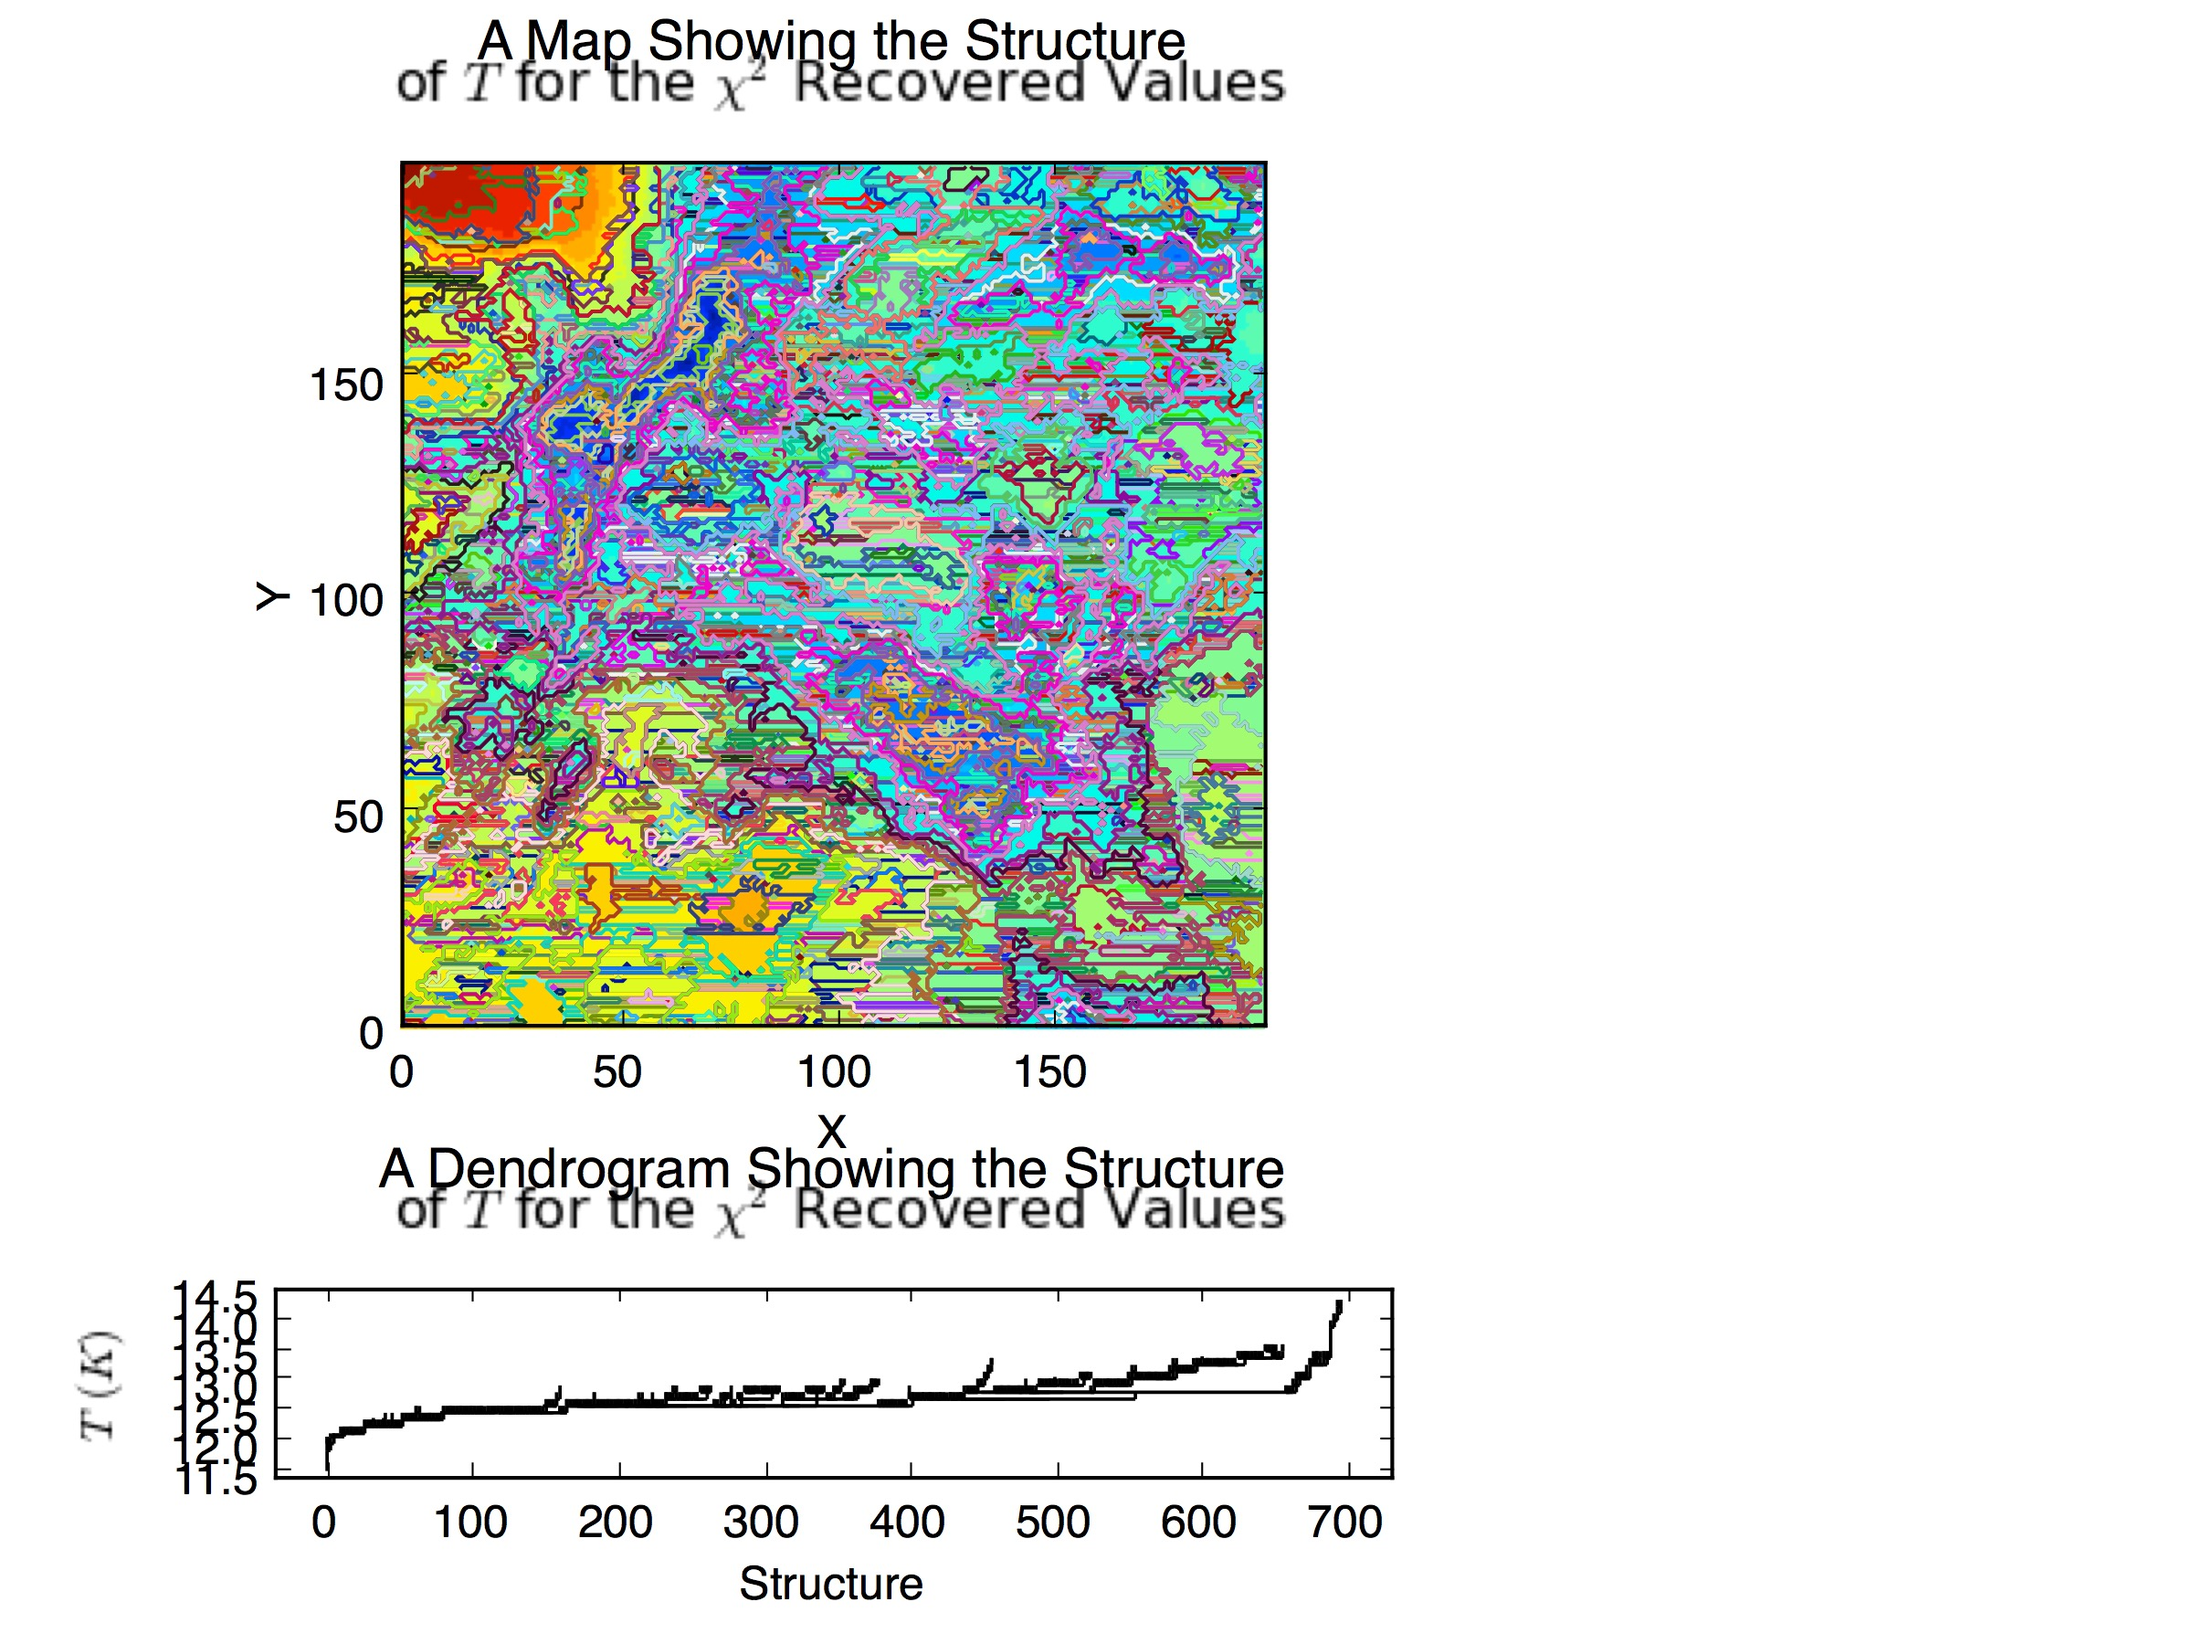
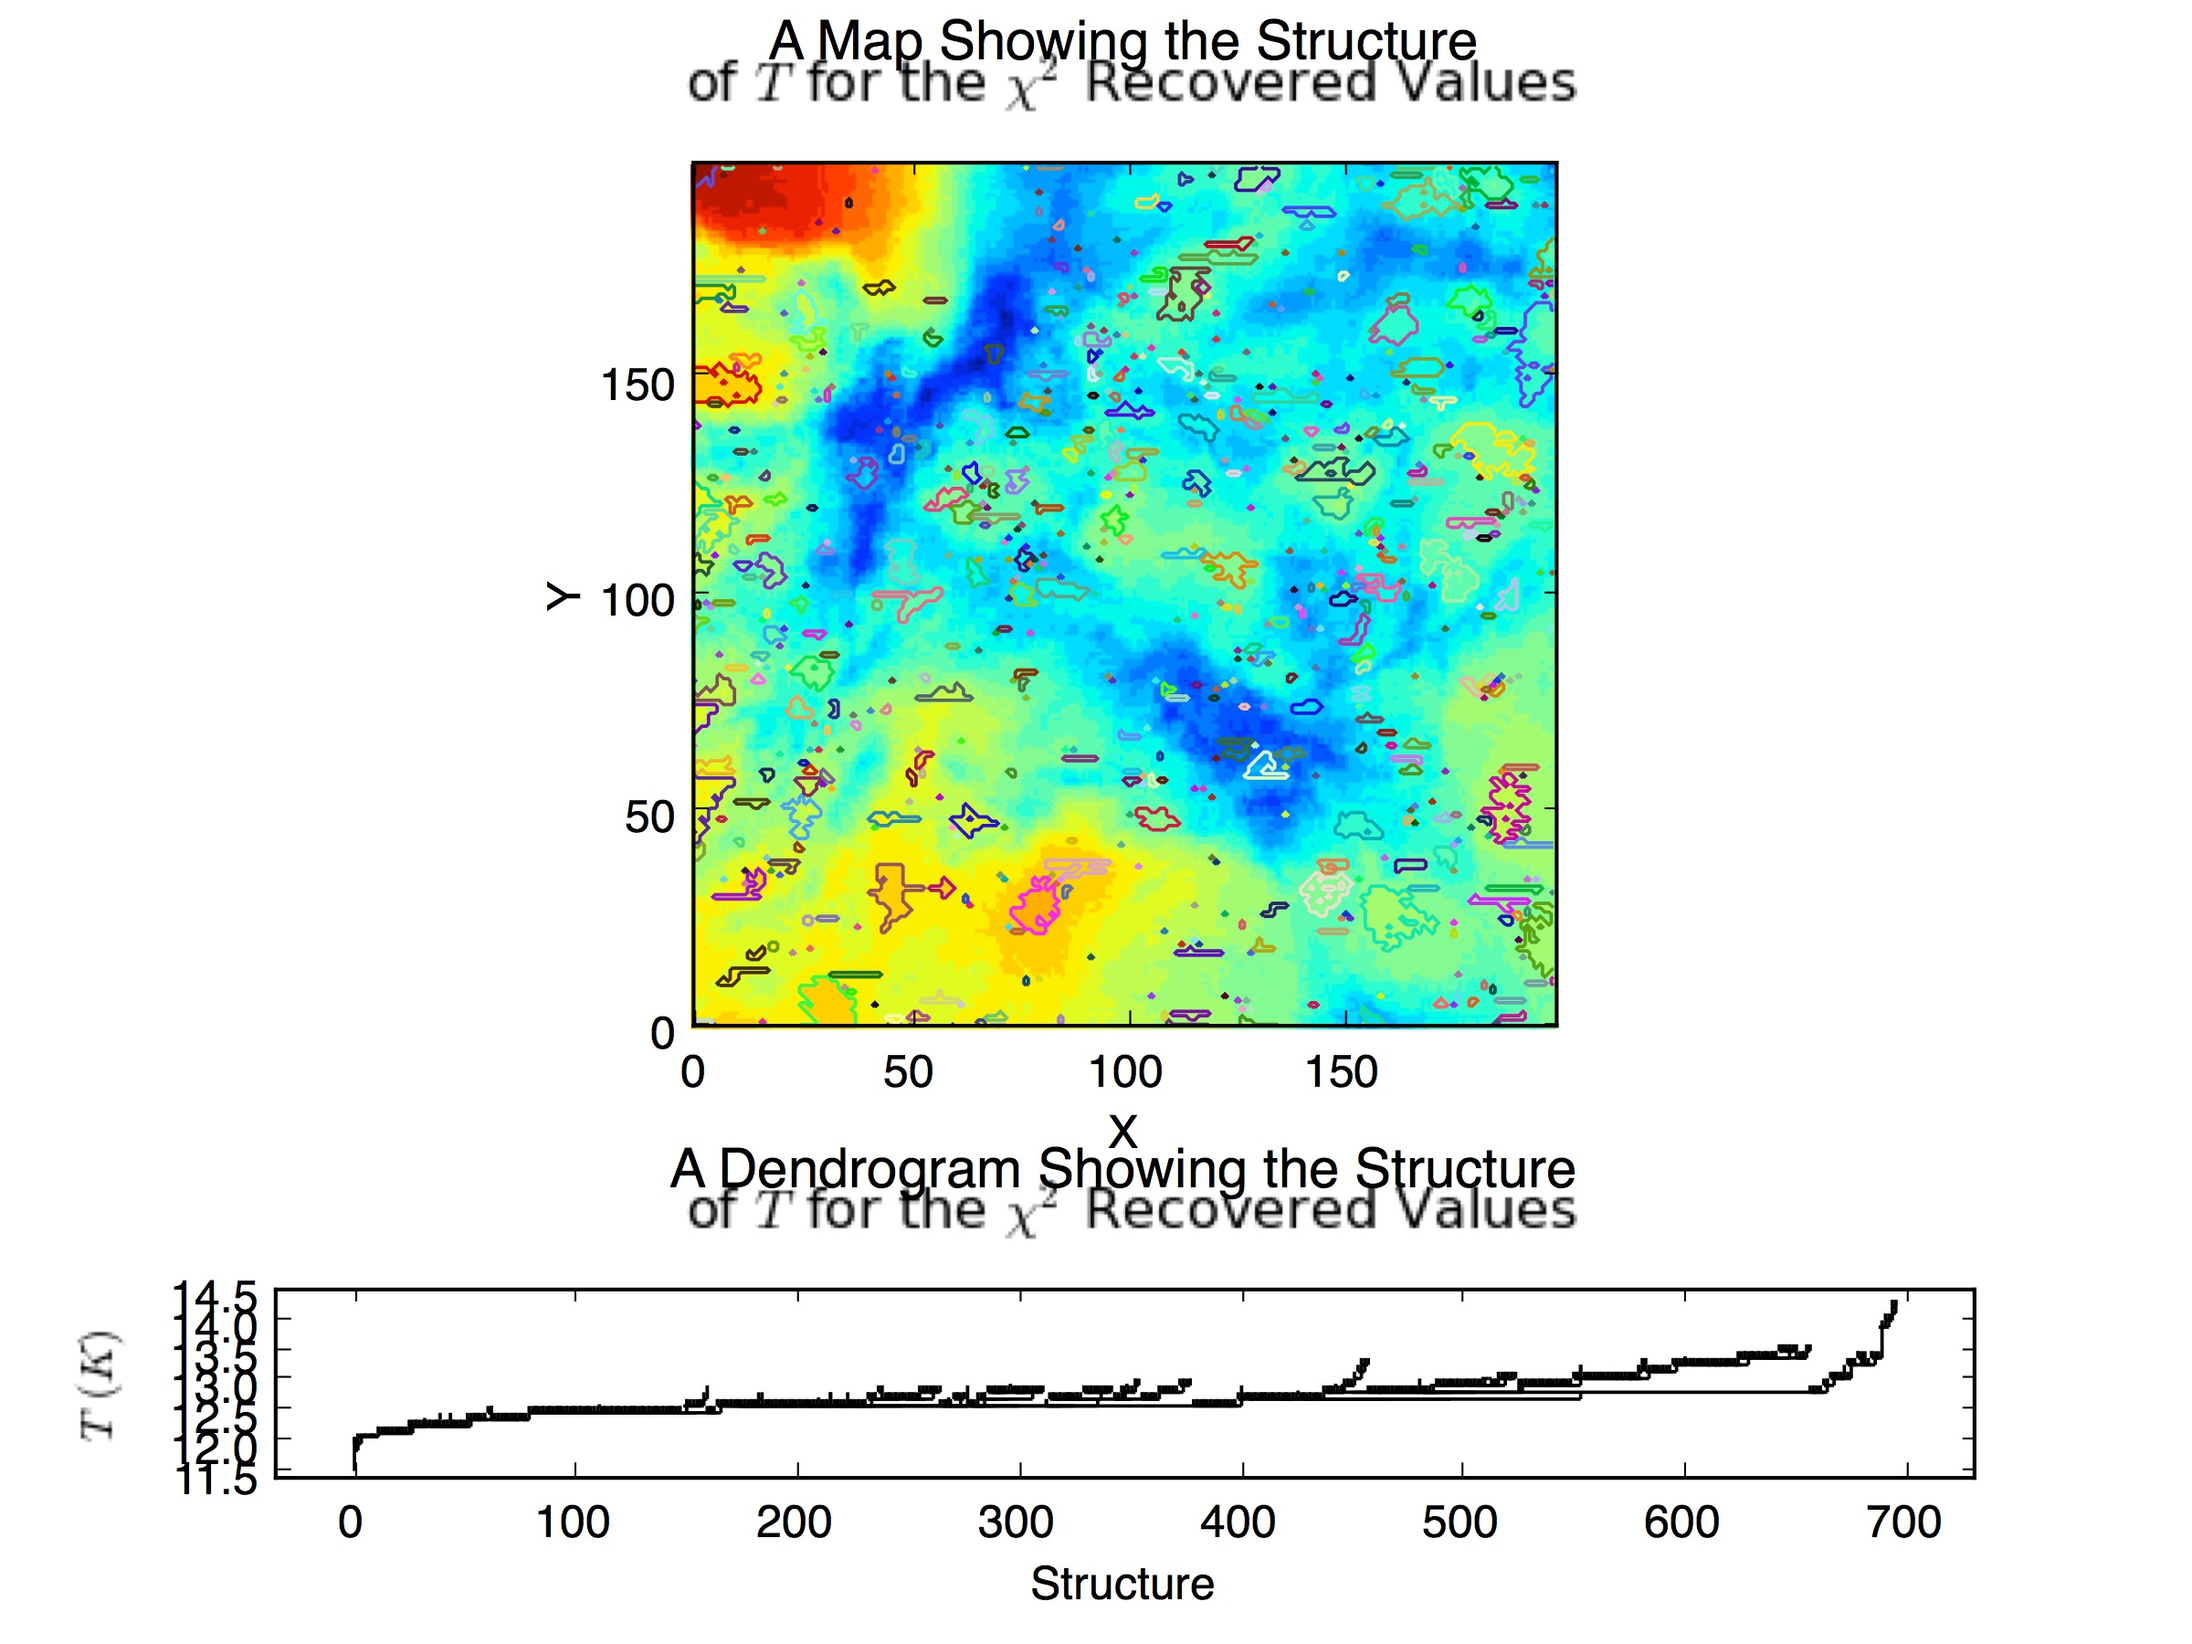
First run of core extraction algorithm - likely bugs

diff --git a/Code/simulations/imgprocess/sphdata/dendrogramv2.py b/Code/simulations/imgprocess/sphdata/dendrogramv2.py
@@ -1,0 +1,170 @@
+################################################################################
+############################ 4th Year Project Code #############################
+############################## Plot Dendrograms ################################
+################################################################################
+
+############################# Import statements ################################
+
+# Import RADMC-3D
+import radmc3dPy
+
+# Import OS manipulation tools
+import os
+
+# Import time tools
+import time
+
+# Import units
+from radmc3dPy.natconst import *
+
+# Import numpy
+import numpy as np
+
+# Import csv
+import csv
+
+# Import plotting tools
+from matplotlib.pyplot import *
+from astropy.io import fits
+from astrodendro import Dendrogram
+
+# Import file mining
+import glob
+
+# Import random
+import random
+
+############################# Read in the data ################################
+
+count, data, filenames = 0, [], []
+
+# Loop through all fits files
+for file in glob.glob('*.fits'):
+    count += 1
+
+    # Read in using astropy and then append the data to a list for use later
+    contents = fits.open(str(file))[1]
+
+    # Define a dendrogram instance
+    d = Dendrogram.compute(contents.data, verbose=True)
+
+    # Let the dendrogram become an interactive plot
+    p = d.plotter()
+
+    if 'T_chi' in file:
+        T_chi_indices, T_chi_vals = [], []
+
+        T_chi_data = contents.data
+
+        # Find the structure within the data
+        for i in range(0,len(d)):
+            struct = d[i]
+
+            # Determine the type of structure
+            if struct.is_leaf:
+
+                # Extract the indices of the core and its value
+                T_chi_indices.append(struct.indices(subtree=True))
+                T_chi_vals.append(struct.values(subtree=True))
+
+    elif 'N_chi' in file:
+        N_chi_indices, N_chi_vals = [], []
+
+        N_chi_data = contents.data
+
+        # Find the structure within the data
+        for i in range(0,len(d)):
+            struct = d[i]
+
+            # Determine the type of structure
+            if struct.is_leaf:
+
+                # Extract the indices of the core and its value
+                N_chi_indices.append(struct.indices(subtree=True))
+                N_chi_vals.append(struct.values(subtree=True))
+
+    elif 'T_data' in file:
+        T_data_indices, T_data_vals = [], []
+
+        T_data_data = contents.data
+
+        # Find the structure within the data
+        for i in range(0,len(d)):
+            struct = d[i]
+
+            # Determine the type of structure
+            if struct.is_leaf:
+
+                # Extract the indices of the core and its value
+                T_data_indices.append(struct.indices(subtree=True))
+                T_data_vals.append(struct.values(subtree=True))
+
+    elif 'N_data' in file:
+        N_data_indices, N_data_vals = [], []
+
+        N_data_data = contents.data
+
+        # Find the structure within the data
+        for i in range(0,len(d)):
+            struct = d[i]
+
+            # Determine the type of structure
+            if struct.is_leaf:
+
+                # Extract the indices of the core and its value
+                N_data_indices.append(struct.indices(subtree=True))
+                N_data_vals.append(struct.values(subtree=True))
+
+####################### Determine core properties #########################
+
+#dataset = ['T_chi_indices', 'T_chi_vals', 'N_chi_indices', 'N_chi_vals', 'T_data_indices', 'T_data_vals', 'N_data_indices', 'N_data_vals']
+dataset = ['T_chi_indices', 'N_chi_indices', 'T_data_indices', 'N_data_indices']
+
+imag = radmc3dPy.image.readImage('../../data/blue/dust_project/image.out')
+
+T_chi_T, N_chi_T, T_chi_N, N_chi_N, T_data_T, N_data_T, T_data_N, N_data_N = [],[],[],[],[],[],[],[]
+u_T_chi_T, M_chi_T, gpe_chi_T, ratio_store = [], [], [], []
+
+# Loop through each dataset
+for i in dataset:
+
+    # Determine which dataset is under consideration
+    if dataset[0] == i:
+
+        # Take the values at each indices and store
+        for j in range(0,len(T_chi_indices)):
+
+            # Take the values of the temperature at the pre defined points
+            T = T_chi_data[T_chi_indices[j]]
+            T_chi_T.append(T)
+            # Determine the internal energy per unit mass at these points
+            u = (3./2)*((kk*T)/(muh2*mp))
+            u_T_chi_T.append(u)
+
+            # Take the values of the column density at the same points
+            N = N_chi_data[T_chi_indices[j]]
+            N_chi_T.append(N)
+            # Determine the mass of the gas (assuming each core is a sphere as the area is pi*r**2) at these points
+            M = N*(muh2*mp)*(np.pi*(imag.sizepix_x/2)**2)
+            M_chi_T.append(M)
+            # Determine the gpe
+            gpe = (-gg)*M/((imag.sizepix_x/2))
+
+            # GPE is GMm/r however because of the Virial Theorem of 2K+U=0, -U/2K = 1. U is the internal energy of the overall mass
+            # i.e. U = u*M. Dividing the 2 cancels the mass.
+            gpe_chi_T.append(gpe)
+            ratio = (u)/(-gpe)
+            ratio_store.append(ratio)
+
+    elif dataset[1] == i:
+        for j in range(0,len(N_chi_indices)):
+            T_chi_N.append(T_chi_data[N_chi_indices[j]])
+            N_chi_N.append(N_chi_data[N_chi_indices[j]])
+    elif dataset[2] == i:
+        for j in range(0,len(T_data_indices)):
+            T_data_T.append(T_data_data[T_data_indices[j]])
+            N_data_T.append(N_data_data[T_data_indices[j]])
+    elif dataset[3] == i:
+        for j in range(0,len(N_data_indices)):
+            T_data_N.append(T_data_data[N_data_indices[j]])
+            N_data_N.append(N_data_data[N_data_indices[j]])

diff --git a/Code/simulations/imgprocess/sphdata/dendrogram.py b/Code/simulations/imgprocess/sphdata/dendrogram.py
@@ -83,8 +83,16 @@ for file in glob.glob('*.fits'):
         # Show contour for ``min_value``
         p.plot_contour(ax1, color='black')
 
-        # Highlight two branches
-        p.plot_contour(ax1, structure=struct, lw=3, colors="#%06x" % random.randint(0, 0xFFFFFF))
+        # Determine the type of structure
+        if struct.is_leaf:
+            leaves.append(struct)
+
+            # Extract the indices of the core and its value
+            indices = struct.indices(subtree=True)
+            vals = struct.values(subtree=True)
+
+            # Highlight branches
+            p.plot_contour(ax1, structure=struct, lw=3, colors="#%06x" % random.randint(0, 0xFFFFFF))
 
     # Plot the entire tree in black
     p.plot_tree(ax2, color='black')

diff --git a/Code/simulations/imgprocess/cloud/dendrogram.py b/Code/simulations/imgprocess/cloud/dendrogram.py
@@ -89,8 +89,13 @@ for file in glob.glob('*.fits'):
         # Determine the type of structure
         if struct.is_leaf:
             leaves.append(struct)
+
+            # Extract the indices of the core and its value
             indices = struct.indices(subtree=True)
-            vals = struct.indices(subtree=True)
+            vals = struct.values(subtree=True)
+
+            print indices
+            print vals
 
             # Highlight two branches
             p.plot_contour(ax1, structure=struct, lw=3, colors="#%06x" % random.randint(0, 0xFFFFFF))
